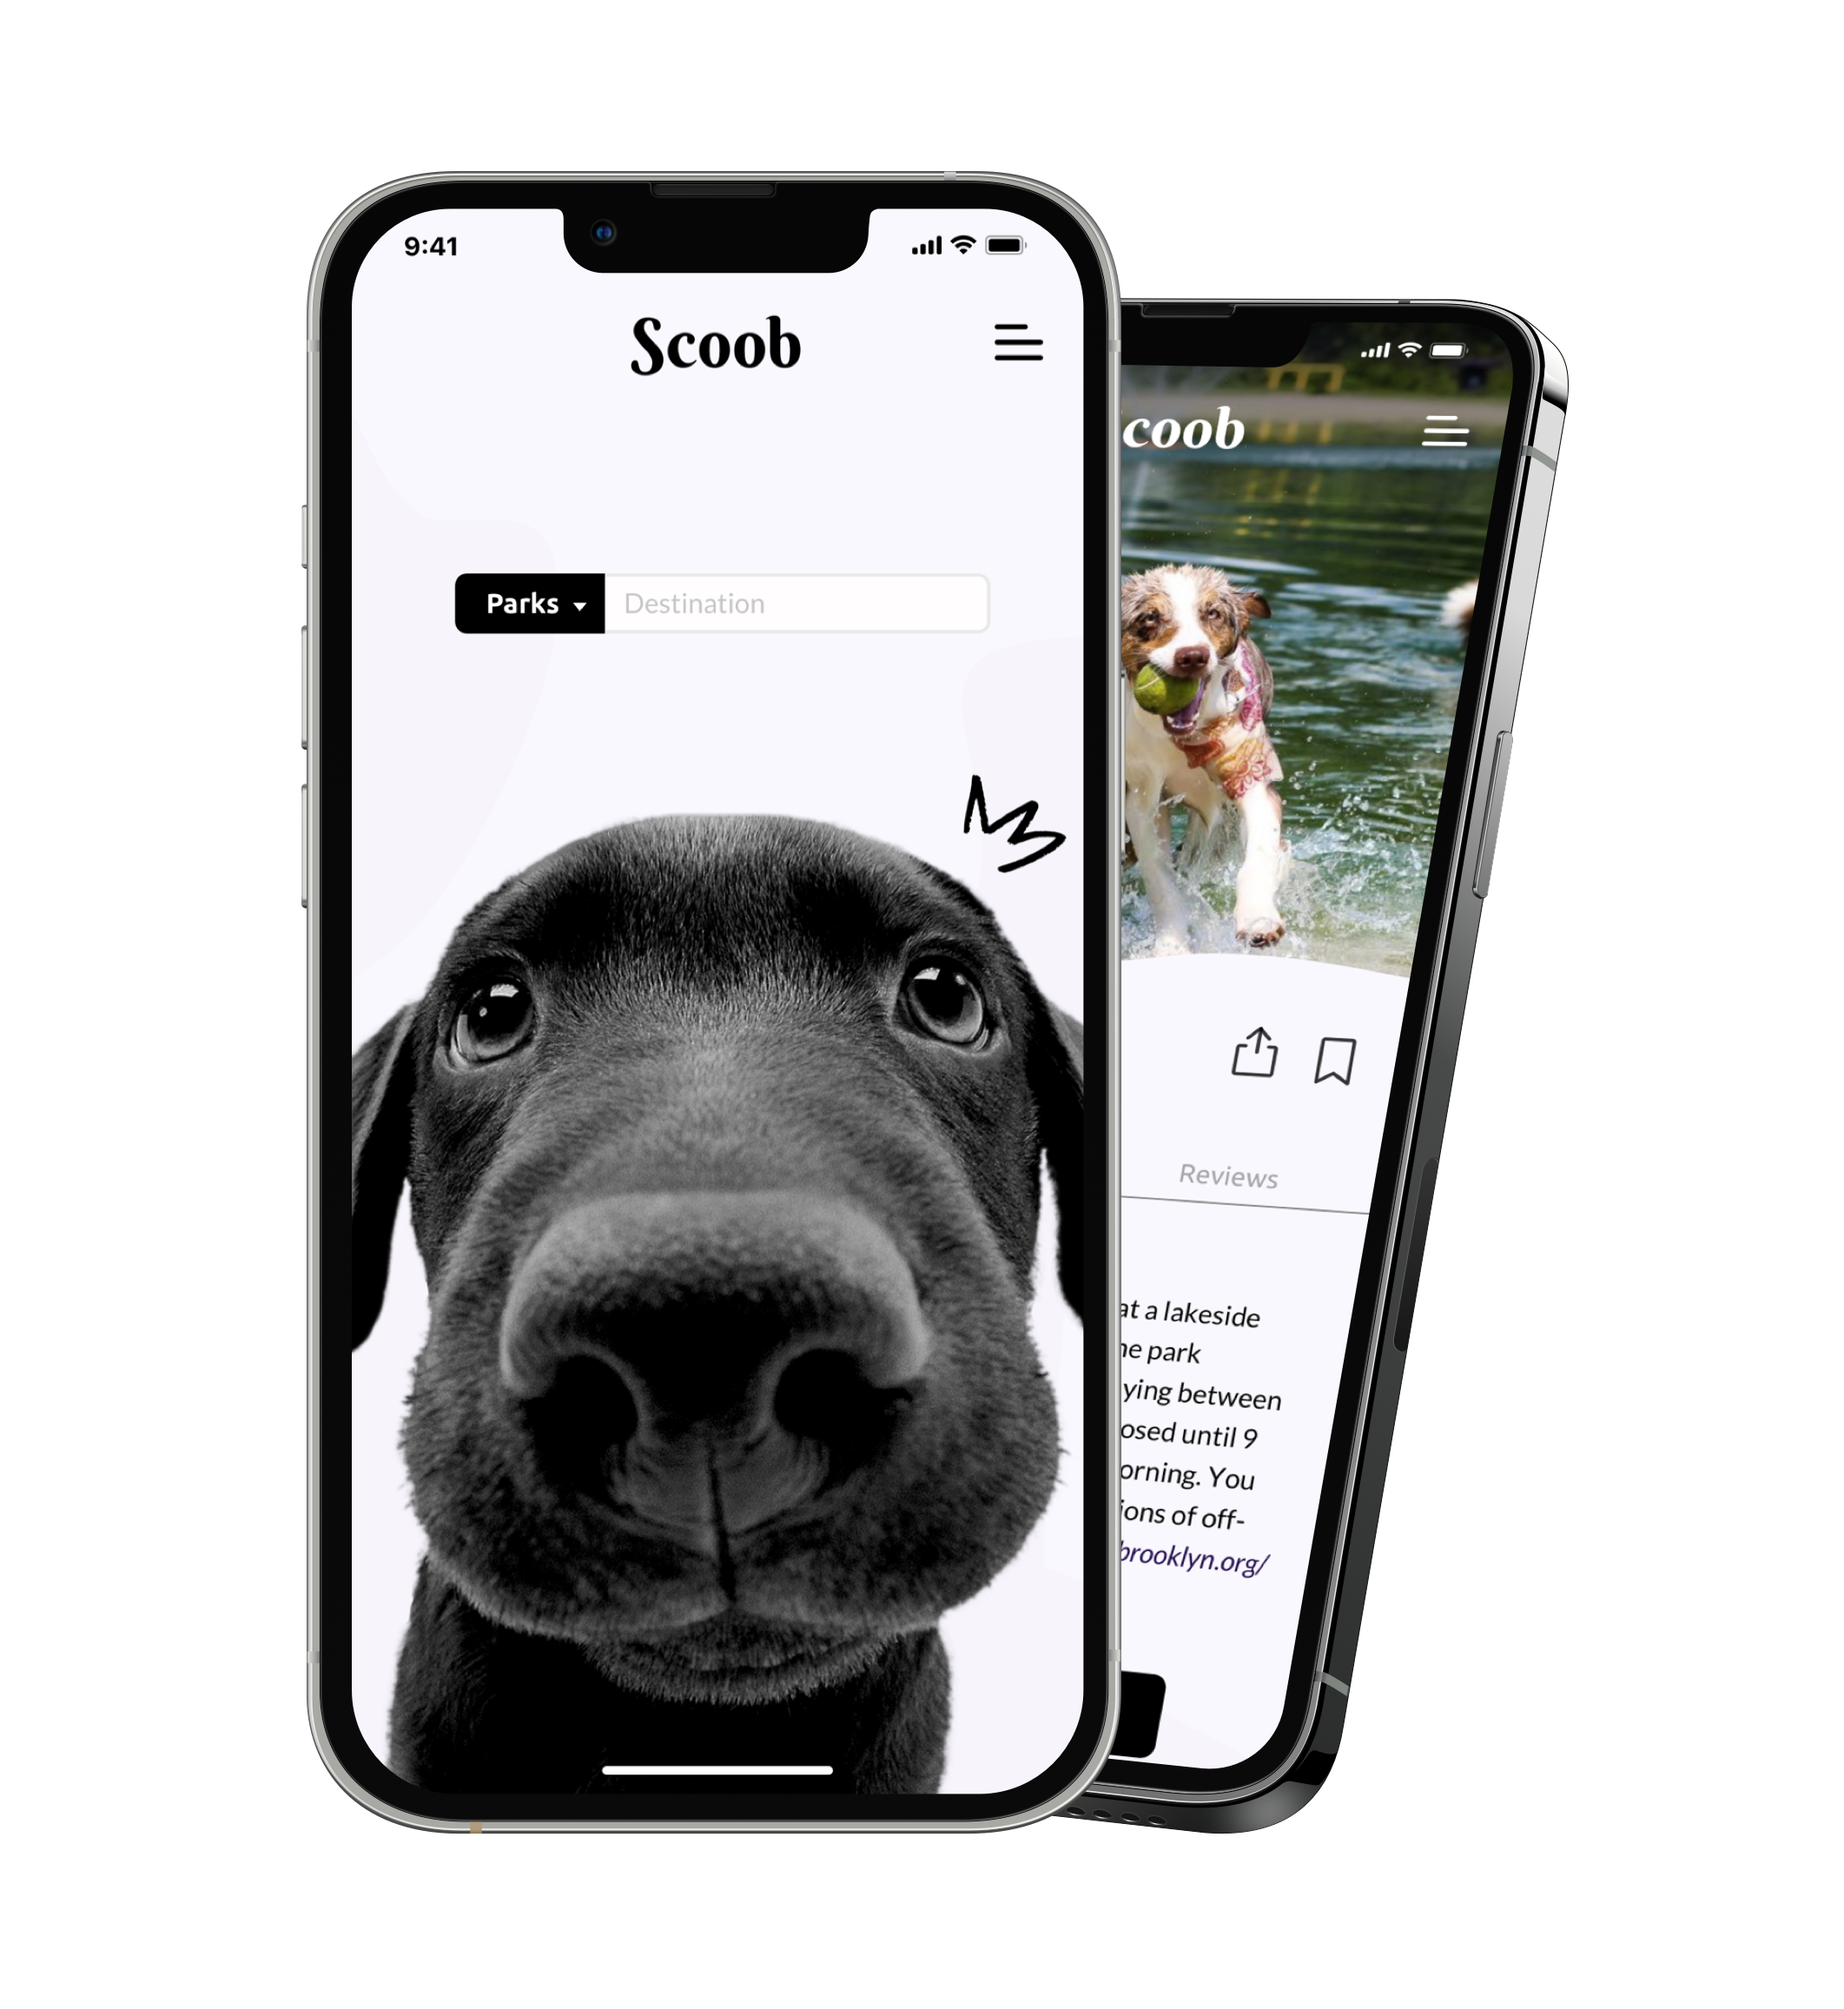
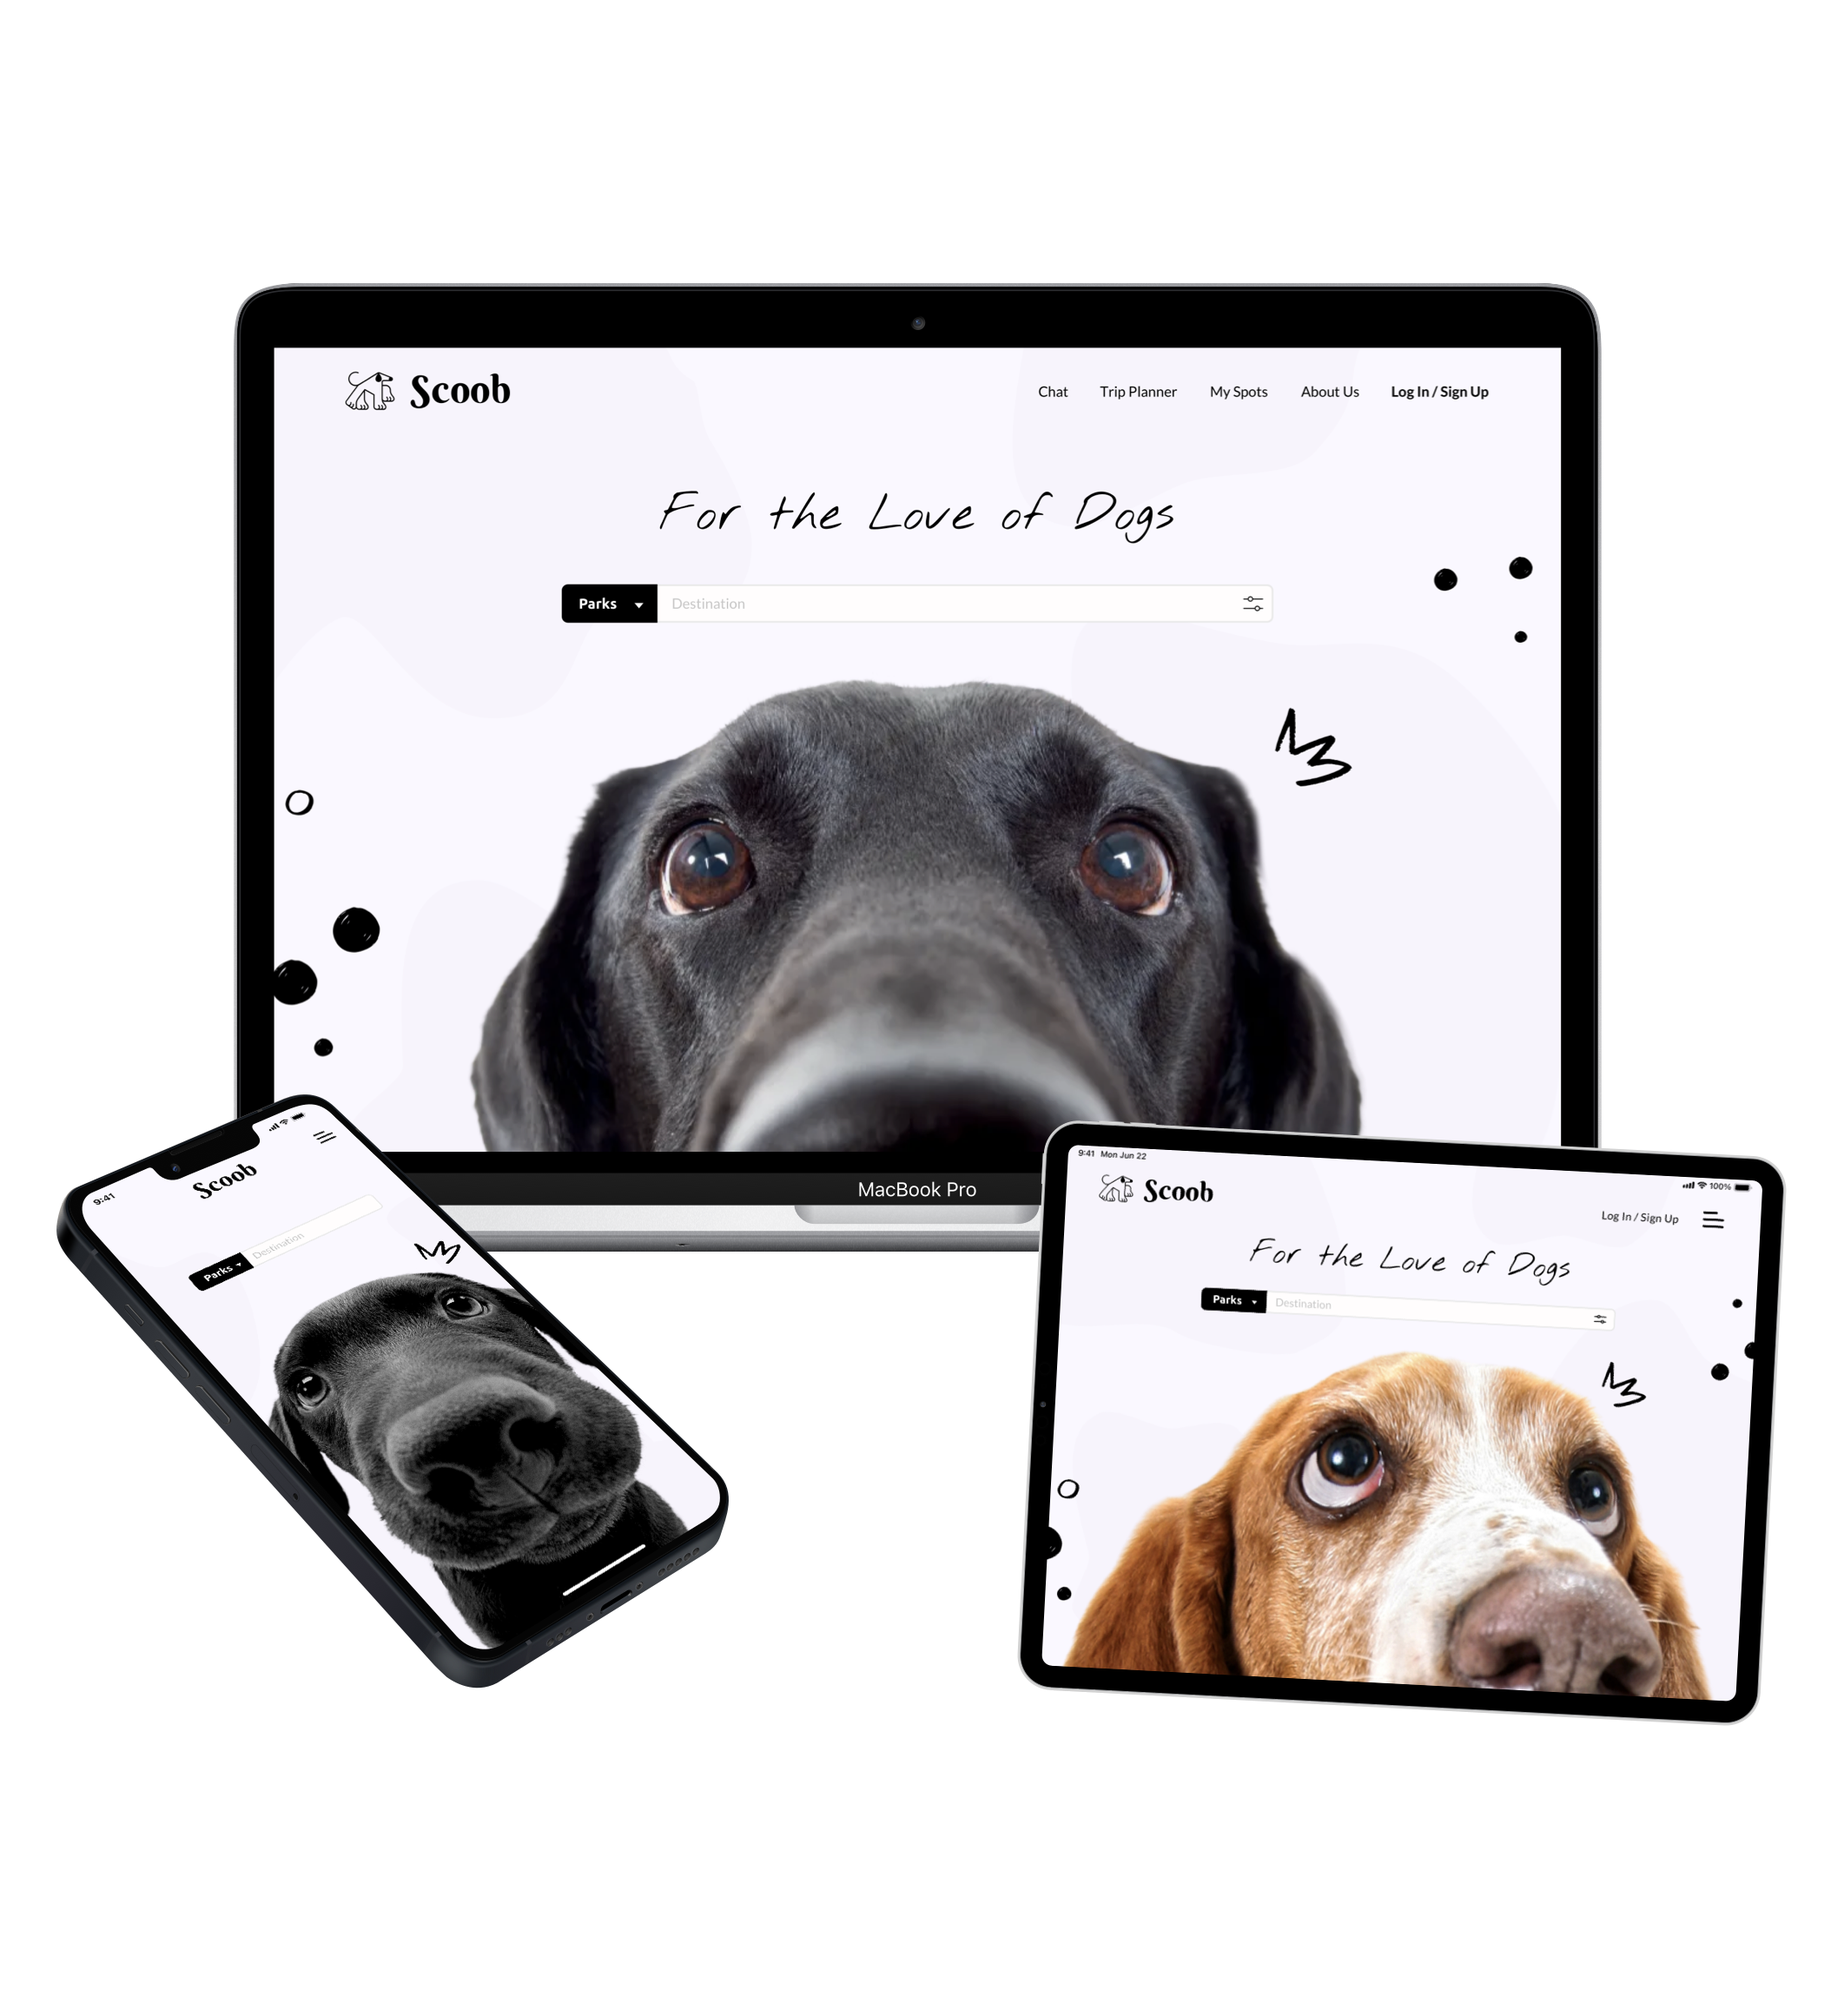
Changed Scoob Homepage Photo and Title Image

diff --git a/css/style.css b/css/style.css
@@ -54,9 +54,8 @@ h5 {
 }
 
 h6 {
-  font-size: 1.60em;
+  font-size: 1.5em;
   font-weight: 300;
-  margin-top: 37px;
 }
 
 h7 {
@@ -351,6 +350,7 @@ margin-bottom: 15px;
 #featuredwork {
   margin-bottom: 30px;
   text-align: center;
+  margin-top: 60px;
 }
 
 #work {
@@ -449,12 +449,13 @@ nav > ul {
 
 
 .titleimage img {
-  max-width: 1000px;
+  max-width: 550px;
 }
 
 #featuredwork {
   margin-bottom: 45px;
   text-align: center;
+  margin-top: 25px;
 }
 
 #emailicon {
